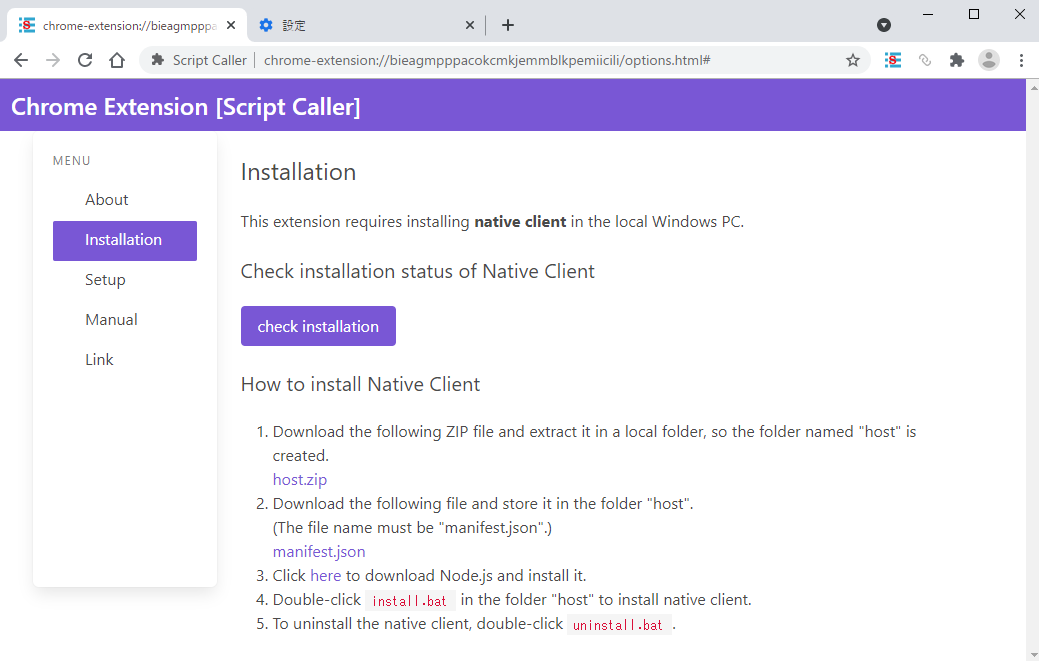
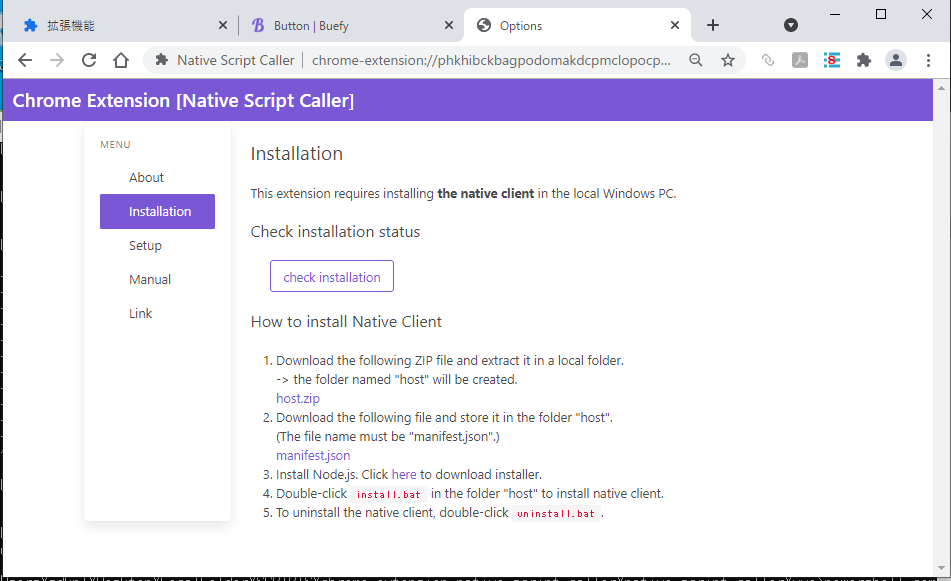
minor_update

diff --git a/vue/src/App.vue b/vue/src/App.vue
@@ -29,7 +29,7 @@
             <p class="subtitle">About</p>
             <p>
               This extension provides a custom menu in Chrome toolbar and context menu.<br>
-              By clicking it, you can run your Node.js scripts on the local PC.
+              By clicking it, you can run your Node.js script on the local PC.
             </p>
 
           </div>
@@ -38,12 +38,12 @@
           <div v-if="menuActiveInstallation" style="height:100%">
             <p class="subtitle is-4">Installation</p>
 
-            <p>This extension requires installing <b>native client</b> in the local Windows PC.</p>
+            <p>This extension requires installing <b>the native client</b> in the local Windows PC.</p>
             <br>
 
             <p class="subtitle is-5">Check installation status</p>
             <span style="width:10ex"></span>
-            <b-button type="is-primary" v-on:click="onclick_checkinstallation" style="margin:0 3ex">check installation</b-button>
+            <b-button type="is-primary" outlined v-on:click="onclick_checkinstallation" style="margin:0 3ex">check installation</b-button>
             <br><br>
         
             <p class="subtitle is-5">How to install Native Client</p>
@@ -69,7 +69,7 @@
           </div>
 
           <!-- Setup -->
-          <div v-if="menuActiveSetup" style="height:100%;width:100%">
+          <div v-if="menuActiveSetup" style="height:100%">
             <div class="level">
               <div class="level-left">
                 <p class="subtitle">Setup of menu and user scripts</p>
@@ -81,25 +81,23 @@
               </div>
             </div>
 
-            <div v-if="allData" style="min-width:640px; height:100%;width:100%" >
+            <div v-if="allData" style="min-width:640px; height:100%" >
               <b-field label="Title">
-                  <input class="input" type="text" v-model="allData.browserAction.title" title="Title of the icon (menu)">
+                <input class="input" type="text" v-model="allData.browserAction.title" :title="manualData[0].description">
               </b-field>              
               <b-field label="Icon">
-                <input class="input" type="text" v-model="allData.browserAction.icon.file" title="	Relative path name of icon image file. It should be 16x16 PNG file.">
+                <input class="input" type="text" v-model="allData.browserAction.icon.file" :title="manualData[1].description">
               </b-field>
               <div class="level" style="margin:0px">
                 <div class="level-left" style="margin:0px">
                   <b-field label="Menu Items"></b-field>                      
                 </div>
                 <div class="level-left" style="margin:0px">
-                  <b-button type="is-primary" size="is-small" v-on:click="onclick_add" title="Add a menu item">
+                  <b-button type="is-primary" size="is-small" v-on:click="onclick_add">
                     <div style="display:flex">
-
                       <svg style="width:22px;height:22px;" viewBox="0 0 24 24">
                         <path fill="currentColor" d="M17,13H13V17H11V13H7V11H11V7H13V11H17M19,3H5C3.89,3 3,3.89 3,5V19A2,2 0 0,0 5,21H19A2,2 0 0,0 21,19V5C21,3.89 20.1,3 19,3Z" />
                       </svg>
-
                     </div>
                   </b-button>    
                 </div>
@@ -109,46 +107,42 @@
                 <div class="panel" animation="slide"
                     v-for="(menu, index) of allData.browserAction.menu"
                     :key="index"
-                    style="margin:0px; height:100%;width:100%">
+                    style="margin:0px; height:100%">
                   <a class="panel-block" v-on:click="onclick_open(index);" href="#">
                     {{menu.title}}
                   </a>
 
-                  <b-modal :active="ComponentModalActive === index" @close="onclick_close(index);" :width="1500" scroll="keep" xxxcan-cancel="false" ssstyle=" height:100%;width:1100px">
-                    <div class="card" style=" height:100%;width:1500px">
-                        <div class="card-content">
+                  <b-modal :active="ComponentModalActive === index" @close="onclick_close(index);" :width="1500" scroll="keep" xxxcan-cancel="false" style="height:100%">
+                    <div class="card" style=" height:1000px;">
+                        <div class="card-content" style=" height:1000px;">
                             <div class="level">
                               <div class="level-left">
                                   <p class="title is-4">{{menu.title}}</p>
                               </div>
                               <div class="level-right" v-bind:index="index">
                                 <b-button type="is-primary" v-on:click="onclick_delete" title="Delete">
-                                  <div style="display:flex">
                                     <svg style="width:24px;height:24px" viewBox="0 0 24 24">
                                       <path fill="currentColor" d="M19,4H15.5L14.5,3H9.5L8.5,4H5V6H19M6,19A2,2 0 0,0 8,21H16A2,2 0 0,0 18,19V7H6V19Z" />
                                     </svg>
-                                  </div>
                                 </b-button>
                                 <b-button type="is-primary" v-on:click="onclick_close(index);"  title="Close" style="margin:auto 5px">
-
                                     <svg style="width:24px;height:24px" viewBox="0 0 24 24">
                                       <path fill="currentColor" d="M19,3H16.3H7.7H5A2,2 0 0,0 3,5V7.7V16.4V19A2,2 0 0,0 5,21H7.7H16.4H19A2,2 0 0,0 21,19V16.3V7.7V5A2,2 0 0,0 19,3M15.6,17L12,13.4L8.4,17L7,15.6L10.6,12L7,8.4L8.4,7L12,10.6L15.6,7L17,8.4L13.4,12L17,15.6L15.6,17Z" />
                                     </svg>
-
                                 </b-button>
                               </div>            
                             </div>
 
                             <div class="panel-block">
-                              <form class="card" style="width:100%">
+                              <form class="card" style="height:100%">
                                 <b-field label="Title" horizontal>
-                                    <input class="input" type="text" v-model="menu.title" title="	Title of the menu item">
+                                    <input class="input" type="text" v-model="menu.title"  :title="manualData[3].description">
                                 </b-field>
-                                <b-field label="Matches" horizontal>
-                                  <input class="input" type="text" v-model="menu.matches" title="	(optional) An array of URL prefix match strings. The menu item is shown only if one of the string matches the URL of active page.">
+                                <b-field label="URL Filter" horizontal>
+                                  <input class="input" type="text" v-model="menu.matches"  :title="manualData[4].description">
                                 </b-field>
-                                <b-field label="Removal Element" horizontal>
-                                  <input class="input" type="text" v-model="menu.removal" title="	(optional) Semicolon-separated CSS selectors. The elements selected by the CSS selectors are excluded in HTML sent to the native client.">
+                                <b-field label="Removal Elements" horizontal>
+                                  <input class="input" type="text" v-model="menu.removal"  :title="manualData[5].description">
                                 </b-field>
                                 <b-field label="Native Script" horizontal>
                                   <!----                                  
@@ -171,12 +165,7 @@
             <p class="subtitle">Manual</p>
    
             <p class="subtitle is-6">Instructions of Setup page</p>
-                <b-table :data="manualData" :columns="manualColumns" bordered="true" xxsticky-header="true"></b-table>
-            <ul>
-              <li>
-
-              </li>
-            </ul>
+            <b-table :data="manualData" :columns="manualColumns" bordered="true" xxsticky-header="true"></b-table>
 
             <br><br>
             <p class="subtitle is-6">Debug</p>
@@ -203,7 +192,7 @@
             After modificaion of the above <code>customize/*</code> files,
             click the following button or link to refresh setup.
             <br>
-            <button class="button is-primary" v-on:click="onclick_setup" style="margin:0 3ex">Update Setup</button><br>
+            <b-button class="button is-primary" outlined v-on:click="onclick_setup" style="margin:0 3ex">Update Setup</b-button><br>
             <a href="https://www.google.com/search?q=+Chrome+Store+Native+Script+Caller" style="margin:0 3ex">Link</a>
             <br><br><br>
           </div>
@@ -272,13 +261,14 @@
                   lint: {esversion:6},
                 },
                 manualData: [
-                    { 'item': 'title', 'description': 'Title of the icon(menu)'},
+                    { 'item': 'title', 'description': 'Title of the icon menu'},
                     { 'item': 'icon', 'description': 'Relative path name of icon image file from "host" folder. It should be 16x16 PNG file.'},
                     { 'item': 'Menu Items', 'description': 'List of  menu items'},
-                    { 'item': 'menu item: title', 'description': 'Title of the menu item'},
-                    { 'item': 'menu item: matches', 'description': '(optional) Comma-separated list of URL prefix match strings.  The menu item is shown only if one of the string matches the URL of active page. Refer <a href="https://developer.chrome.com/docs/extensions/mv3/match_patterns/">pattern format.</a>'},
-                    { 'item': 'menu item: Removal', 'description': '	(optional) Semicolon-separated CSS selectors. The elements selected by the CSS selectors are excluded in HTML sent to the native client.'},
-                    { 'item': 'menu item: native Script', 'description': `(optional) Native javascript code that is executed by Node.js in local PC.
+                    { 'item': 'menu item: Title', 'description': 'Title of the menu item'},
+                    { 'item': 'menu item: URL Filter', 'description': '(optional) Comma-separated list of URL pattern strings.  The menu item is shown only if one of the string matches the URL of active page. Refer <a href="https://developer.chrome.com/docs/extensions/mv3/match_patterns/">pattern format.</a>'},
+                    { 'item': 'menu item: Removal Elements', 'description': '	(Optional) Semicolon-separated CSS selectors. The elements selected by the selectors are excluded in HTML text sent to the native client.'},
+                    { 'item': 'menu item: native Script', 'description': `
+                      (optional) Native javascript code that is executed by Node.js in the local PC.
                       This code must contain the definition of <code>function NativeScriptFunction(info)</code>, which is executed when menu is clicked.
                       <code>info</code> is a object of information of Web Page in Active tab:<br>
                       info.url: URL of the page.<br>
@@ -296,7 +286,7 @@
                       },
                       {
                           field: 'description',
-                          label: 'description',
+                          label: 'Description',
                       }
                   ]
         };

diff --git a/ChromeStore/content_script_update.js b/ChromeStore/content_script_update.js
@@ -1,8 +1,20 @@
 // Copyright (C) 2020 hashedtomato3@gmail.com
 // License: MIT 
 
+(async function(){
 
-{
-  //console.log("loading content_script_update.js")
-  chrome.runtime.sendMessage({cmd:"setup"});
-}
+      // Promisified function of chrome extension APIs
+      function chromeRuntimeSendMessage(message) {
+        return new Promise((resolve, reject) => {
+            chrome.runtime.sendMessage(message, (response) => {
+                if (chrome.runtime.lastError) {
+                    return reject(chrome.runtime.lastError);
+                }
+                resolve(response);
+            });
+        });
+    }
+    //console.log("loading content_script_update.js")
+    await chromeRuntimeSendMessage({cmd:"setup"});
+    alert("Setup OK")
+})();

diff --git a/ChromeStore/background.js b/ChromeStore/background.js
@@ -123,7 +123,7 @@ async function setupAll() {
     console.debug(item)
     // create menu
     await createMenu();
-    return true;
+    return {};
 }
 
 // setup browser action icon
@@ -176,7 +176,7 @@ async function createMenu() {
         });
     });
     console.debug("menu setup finished.")
-    return true;
+    return {};
 }
 
 // on clicking menu item
